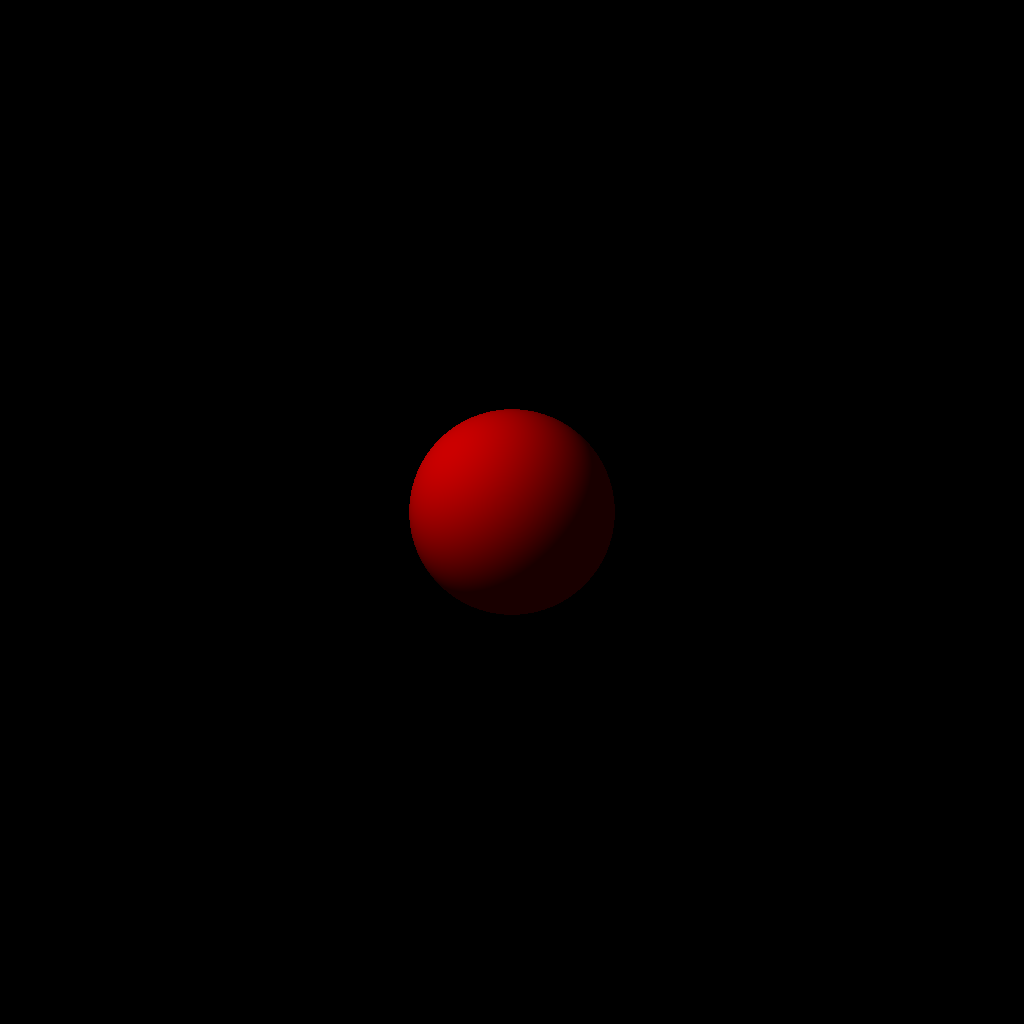
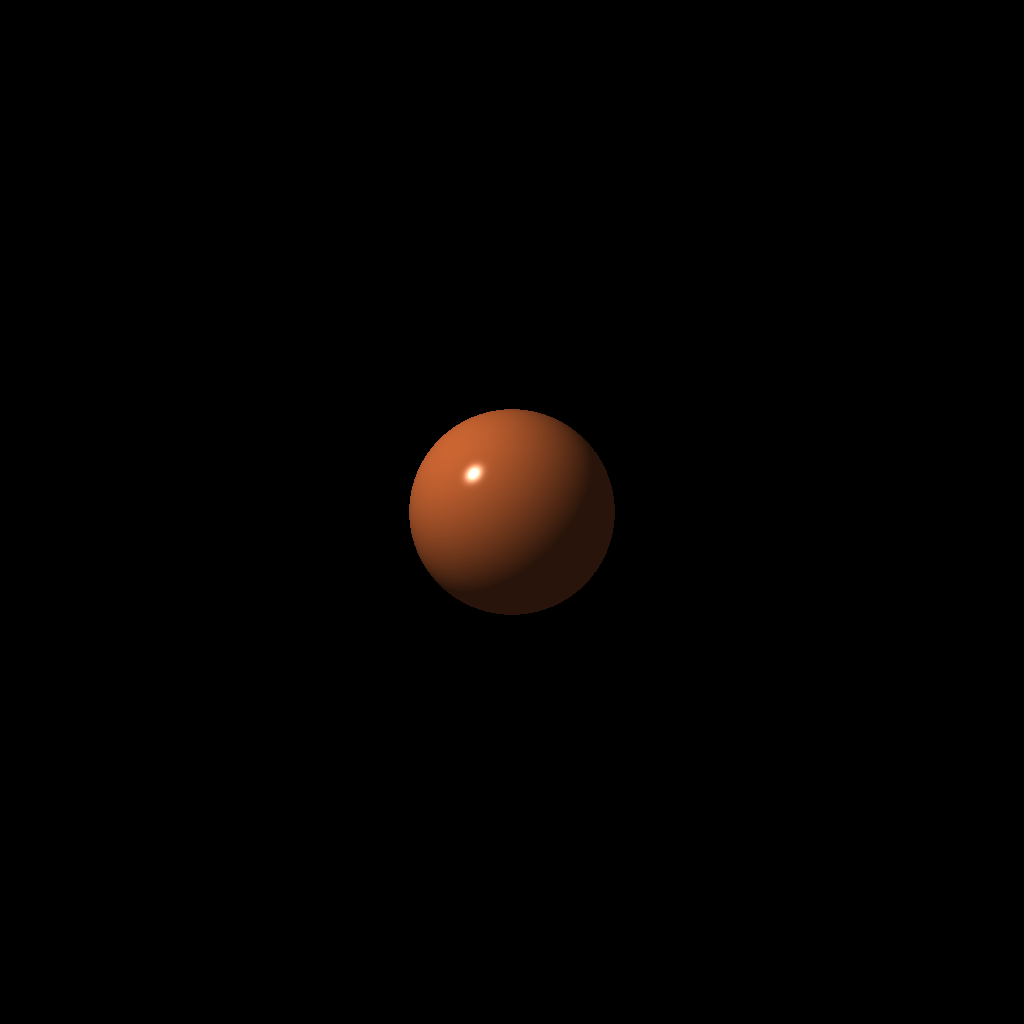
bug fix at specular lighting

Changed region(s): [[0.375, 0.375, 0.5938, 0.5938]]

diff --git a/src/main.rs b/src/main.rs
@@ -4,11 +4,13 @@ use raytrace_rs::{
 
 fn main() {
     let eye = point(0.0, 0.0, 0.0);
+    let eyev = point(0.0, 0.0, 1.0);
 
     let light = PointLight::new(point(-5.0, 5.0, 5.0), Color::WHITE);
 
     let mut sphere = Sphere::new(point(0.0, 0.0, 10.0), 1.0);
-    sphere.mat = Material::new(Color::new(1.0, 0.0, 0.0), 0.1, 0.7, 0.8, 200.0);
+    //sphere.mat = Material::new(Color::new(0.8, 0.4, 0.2), 0.1, 0.7, 10.0, 200.0);
+    sphere.mat = Material::new(Color::new(0.8, 0.4, 0.2), 0.2, 0.8, 1.0, 100.0);
 
     let (width, height) = (1024, 1024);
     let mut canvas = Canvas::new(width, height);
@@ -40,10 +42,37 @@ fn main() {
                     let pos = ray.position(t);
                     let normalv = sphere.normal_at(pos);
 
-                    let color = point_lighting(&sphere.mat, &light, pos, dirv, normalv);
+                    let color = point_lighting(&sphere.mat, &light, pos, eyev, normalv);
 
                     canvas.write_pixel(ix, iy, color);
                 }
+            }
+        }
+    }
+
+    {
+        let x = 480.0;
+        let y = 480.0;
+        // calc ray
+
+        // plane pos
+        let x = ((x / ((width - 1) as f32)) - 0.5) * 2.0; // -1 to 1
+        let y = ((y / ((height - 1) as f32)) - 0.5) * -2.0; // -1 to 1
+        let dirv = vector(x * near_width * 0.5, y * near_height * 0.5, near_z).normalize();
+
+        let ray = dbg!(Ray::new(eye, dirv));
+
+        let mut xs = dbg!(ray.intersect_sphere(&sphere));
+        xs.sort_by(|a, b| a.partial_cmp(b).unwrap());
+
+        // 가깝지만 뒤로 넘어가지 않는 위치를 구한다
+        if xs.len() > 0 {
+            let c = xs.iter().filter(|&&t| t > 0.0).next();
+            if let Some(&t) = c {
+                let pos = dbg!(ray.position(t));
+                let normalv = dbg!(sphere.normal_at(pos));
+
+                dbg!(point_lighting(&sphere.mat, &light, pos, eyev, normalv));
             }
         }
     }

diff --git a/src/point_light.rs b/src/point_light.rs
@@ -32,7 +32,7 @@ pub fn point_lighting(
         diffuse = effective_color * material.diffuse * light_dot_normal;
 
         let reflectv = (-lightv).reflect(normalv);
-        let reflect_dot_eye = reflectv.dot(eyev);
+        let reflect_dot_eye = reflectv.dot(-eyev);
         if reflect_dot_eye <= 0.0 {
             specular = Color::BLACK;
         } else {
@@ -51,7 +51,7 @@ mod tests {
 
     #[test]
     fn lighting_with_the_eye_between_light_and_surface() {
-        let eyev = vector(0.0, 0.0, -1.0);
+        let eyev = vector(0.0, 0.0, 1.0);
         let normalv = vector(0.0, 0.0, -1.0);
         let position = point(0.0, 0.0, 0.0);
         let light = PointLight::new(point(0.0, 0.0, -10.0), Color::WHITE);

diff --git a/src/canvas.rs b/src/canvas.rs
@@ -37,9 +37,9 @@ impl Canvas {
             let (x, y) = Self::get_xy(self.width, idx as u32);
 
             let color = image::Rgb([
-                (color.red * 255.0) as u8,
-                (color.green * 255.0) as u8,
-                (color.blue * 255.0) as u8,
+                (color.red.clamp(0.0, 1.0) * 255.0) as u8,
+                (color.green.clamp(0.0, 1.0) * 255.0) as u8,
+                (color.blue.clamp(0.0, 1.0) * 255.0) as u8,
             ]);
 
             *image.get_pixel_mut(x, y) = color;

diff --git a/src/ray.rs b/src/ray.rs
@@ -1,5 +1,6 @@
 use crate::{Sphere, Vec4};
 
+#[derive(Debug)]
 pub struct Ray {
     pub origin: Vec4,
     pub dir: Vec4,
